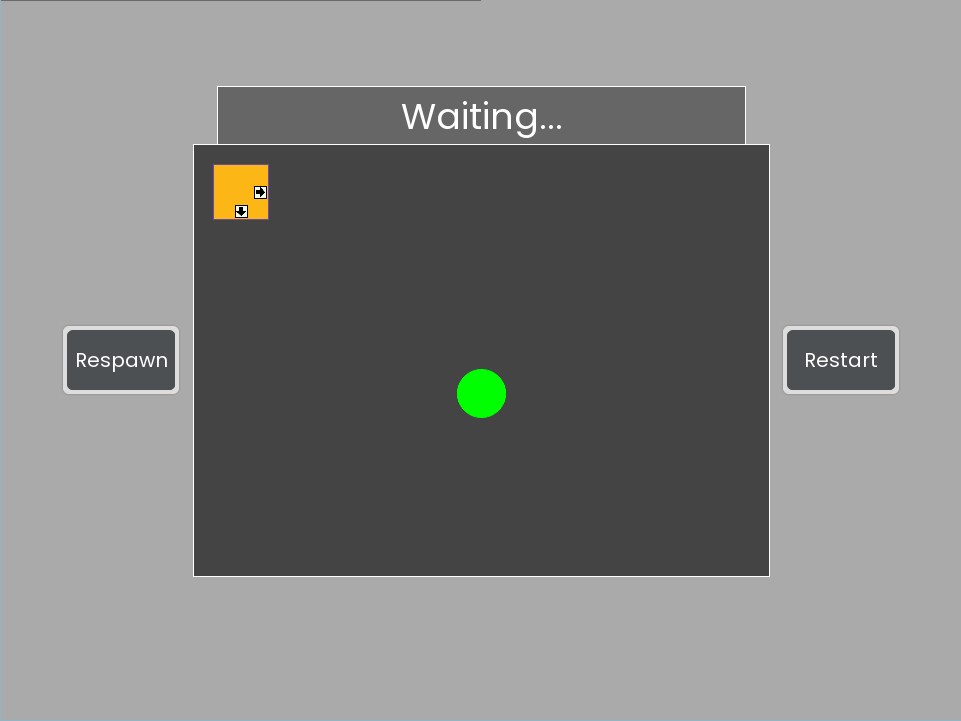
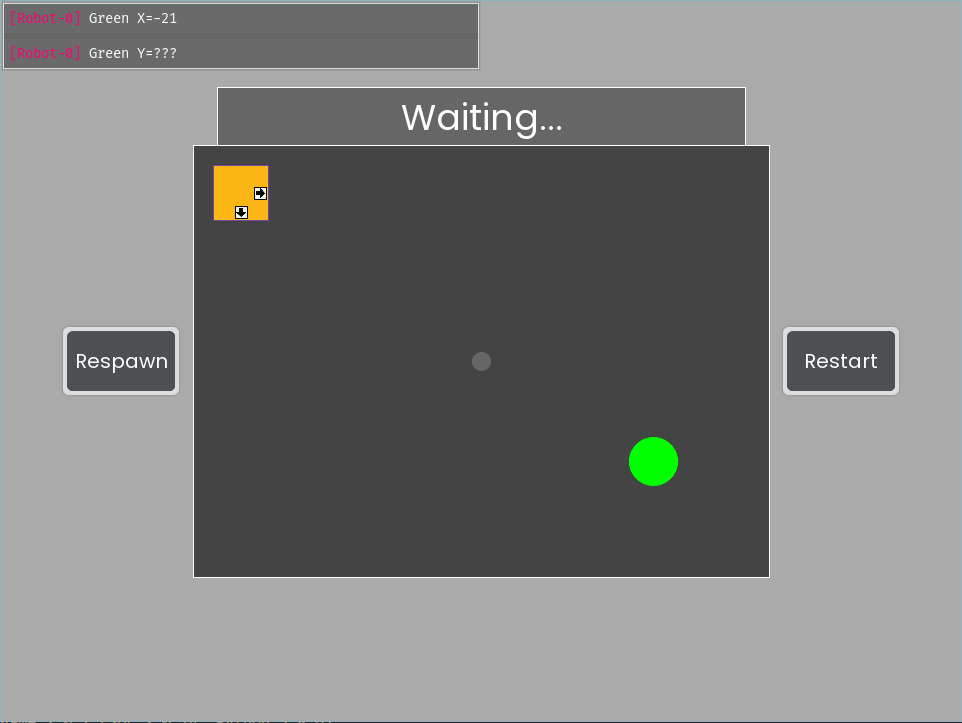
Change botMoving to use input.

diff --git a/botMoving/preset/preset.py b/botMoving/preset/preset.py
@@ -63,13 +63,8 @@ class MovementInteractor(PygameGuiInteractor):
         super().restartBots()
         ScriptLoader.instance.object_map["positionText"].text = "Waiting..."
         ScriptLoader.instance.object_map["positionBG"].fill = "#666666"
-        if hasattr(self, "target_position"):
-            ScriptLoader.instance.sendEvent(
-                "Robot-0", "on_spawn", {"position": (
-                    self.target_position[0],
-                    self.target_position[1],
-                )}
-            )
+        ScriptLoader.instance.postInput(str(self.target_position[0]))
+        ScriptLoader.instance.postInput(str(self.target_position[1]))
 
     def generateObjects(self):
         generic_button_data = {

diff --git a/botMoving/bot/code.py b/botMoving/bot/code.py
@@ -1,21 +1,9 @@
-from ev3dev2.motor import LargeMotor
-from ev3sim.code_helpers import format_print, wait_for_tick, EventSystem
+from ev3dev2.motor import LargeMotor, OUTPUT_A, OUTPUT_B
 
-x, y = 0, 0
-def on_spawn(data):
-    global x, y
-    x, y = data["position"]
+horizontalMotor = LargeMotor(OUTPUT_A)
+verticalMotor = LargeMotor(OUTPUT_B)
 
-EventSystem.on_spawn = on_spawn
-wait_for_tick()
-EventSystem.handle_events()
+x = int(input())
 
-target_string = "{x}, {y}".format(x=x, y=y)
-
-format_print("The target is at <b>" + target_string + "</b>")
-wait_for_tick()
-
-sideMotor = LargeMotor("outA")
-verticalMotor = LargeMotor("outB")
-
-# Your code goes here!
+print(f"Green X={x}")
+print(f"Green Y=???")
